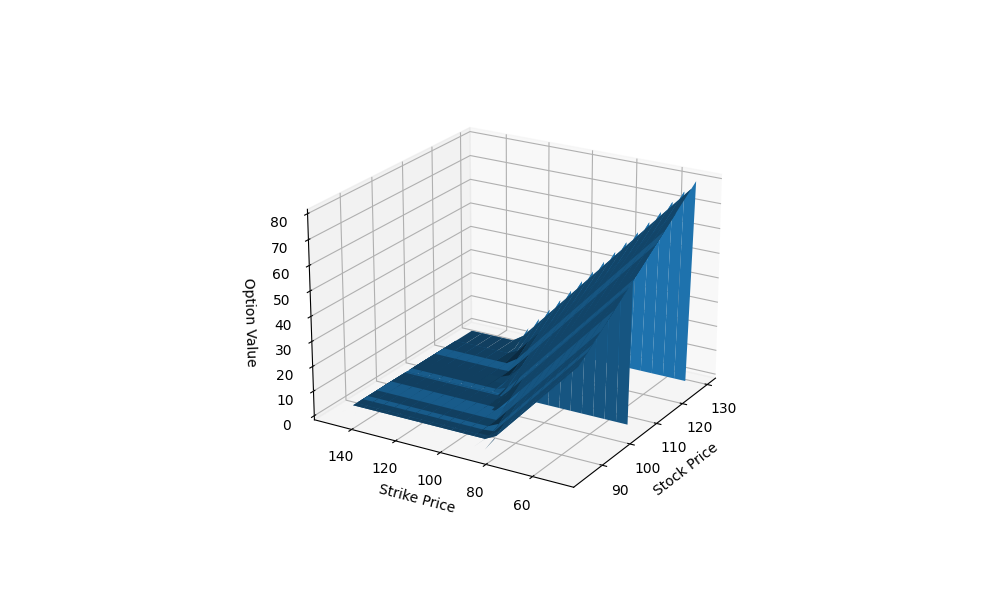
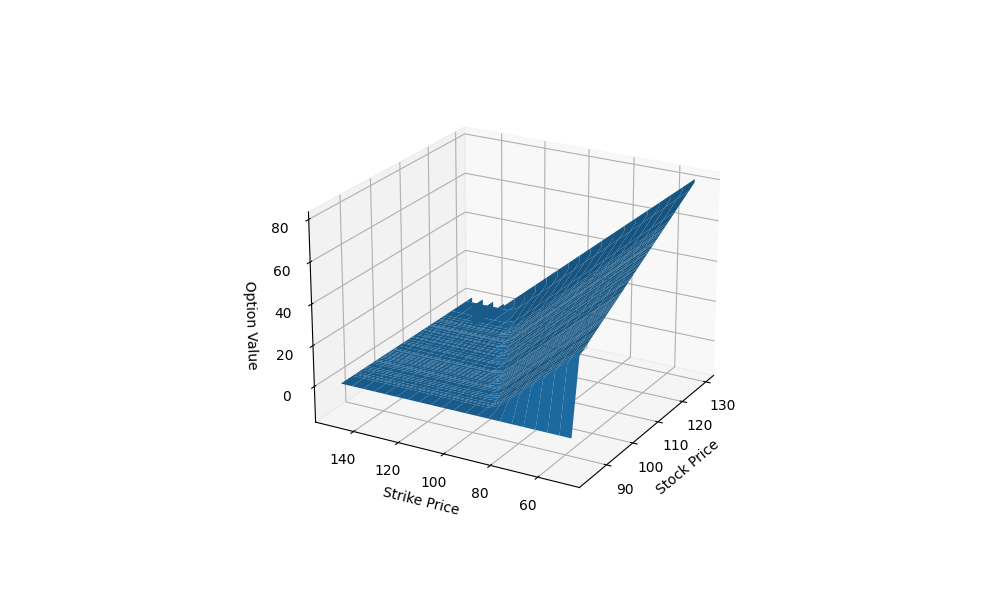
updated results, added execution time calculation

diff --git a/src/SERK2v2.py b/src/SERK2v2.py
@@ -18,6 +18,7 @@ the option values and prints the option value at the strike price.
 import numpy as np
 import matplotlib.pyplot as plt
 import pandas as pd
+import time
 from mpl_toolkits.mplot3d import Axes3D
 
 def black_scholes_rhs(stock_prices, g_prev, r, sigma, dS, dT):
@@ -156,7 +157,7 @@ def plot_2d_option_values(stock_prices, option_values, filename):
     plt.plot(stock_prices, option_values, label='Option Value')
     plt.xlabel('Stock Price')
     plt.ylabel('Option Value')
-    plt.title('American Call Option Value at t=0')
+    plt.title('Apple K=140 Stock Price vs Option Value')
     plt.legend()
     plt.savefig(filename, dpi=300, bbox_inches='tight')
     plt.close()
@@ -204,7 +205,7 @@ N = len(stock_prices) - 1
 S = stock_prices[-1]
 K = 140
 T = len(stock_prices) / 252 #1
-s_stages = 20
+s_stages = 140
 r =  .03 
 sigma = calculate_annualized_volatility(stock_prices, T) 
 
@@ -212,14 +213,19 @@ if __name__ == "__main__":
     strike_prices = np.linspace(50, 150, 21)
     option_values = np.zeros((len(strike_prices), N + 1))
 
+    start_time = time.time()
+
     #for i, K in enumerate(strike_prices):
     V = black_scholes_american_call_option(S, K, T, r, sigma, N, M, s_stages)
         # removes outliers, negative option values
     #V[V < 0] = 0
         #option_values[i] = V[:, 0]
-    
+    end_time = time.time()
+    run_time = end_time - start_time
+    print(f"Execution time: {run_time} seconds")
+
     #plot_3d_option_values(stock_prices, strike_prices, option_values)
-    create_option_value_table(stock_prices, V[:, 0], '../results/aapl_option_value_table.png')
-    plot_2d_option_values(stock_prices, V[:, 0], '../results/aapl_option_value_graph.png')
+    #create_option_value_table(stock_prices, V[:, 0], '../results/aapl_option_value_table.png')
+    #plot_2d_option_values(stock_prices, V[:, 0], '../results/aapl_option_value_graph.png')
 
     print(f"Option value at S=K: {V[N//2, 0]}")
